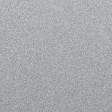
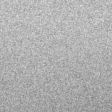
fix(themes): Redraw the grain, sand, denim and tweed textures and their picker swatches so they read as fine grain, gravel, woven threads and fibre

diff --git a/Resources/ThemeTextures/README.md b/Resources/ThemeTextures/README.md
@@ -1,15 +1,19 @@
 # Theme renderer textures
 
-`grain.png`, `sand.png`, `denim.png` and `tweed.png` are Parc's own procedural
-surface textures, generated from fixed random seeds:
+`grain.png`, `sand.png`, `denim.png` and `tweed.png` are Parc's own surface
+textures, generated from fixed random seeds:
 
-- `grain.png`: 200 × 200 straight-alpha colour noise at alpha 66, softened by a
-  wrapped three-tap kernel so the 100-point tile repeats without a seam.
-- `sand.png`: 100 × 100 opaque grayscale noise with a bright-leaning spread.
-- `denim.png`: 100 × 100 opaque 3/1 twill with per-thread variation.
-- `tweed.png`: 100 × 100 opaque fleck noise over a soft mottle, faint vertical
-  thread bands and a three-pixel weave.
+- `grain.png`: 200 × 200 straight-alpha colour noise at alpha 66. Each channel
+  is independent noise shaped to a fine, slightly soft grain, with a light,
+  bright-leaning tone so the theme colour stays clean.
+- `sand.png`: 100 × 100 opaque grayscale noise with small bright specks and a
+  bright-leaning spread.
+- `denim.png`: 100 × 100 opaque weave built from a fine diagonal ripple and
+  two sets of vertical threads at Parc's own offsets, with random per-thread
+  brightness and fine noise.
+- `tweed.png`: 100 × 100 opaque fibre noise with faint vertical thread bands.
 
-Each tile wraps at its edges. The theme renderer, setup card, start page and
-What's New page load these bundled PNGs. See
+Every tile is synthesised in the frequency domain, so it wraps at its edges
+without a seam. The theme renderer, setup card, start page and What's New page
+load these bundled PNGs. See
 [theme rendering](../../docs/space-theme-rendering.md).

diff --git a/Resources/ThemeEditor/README.md b/Resources/ThemeEditor/README.md
@@ -12,10 +12,14 @@ seeds and supersampled before downsampling.
 
 DotGrid is template artwork at 799 × 801 pixels: 2.2-pixel dots on a 10-pixel
 grid, drawn at the 2× scale of a 400 × 401-point canvas. Each knob is a
-112 × 112-pixel swatch for a nominal 56-point control: a steep 3/1 denim
-twill with thread shading, translucent grey grain fading darker toward the
-bottom, sand pebbles with lit faces and dark gaps, and a tweed of short curved
-fibres. Keep layout dimensions separate from pixel dimensions.
+112 × 112-pixel swatch for a nominal 56-point control, drawn at 8× and box
+filtered: half-transparent grey grain whose light falls off toward the lower
+right; rounded matte pebbles of mixed size, each an irregular oval with its own
+tone and soft top-left light, set in broken dark crevices; darker diagonal
+denim threads interrupted by unevenly spaced bright vertical threads; and an
+even tweed of short, randomly curling fibres over a faint mottle. The editor
+clips each swatch to its control circle at 60% opacity. Keep layout dimensions
+separate from pixel dimensions.
 
 ## Appearance animations
 
